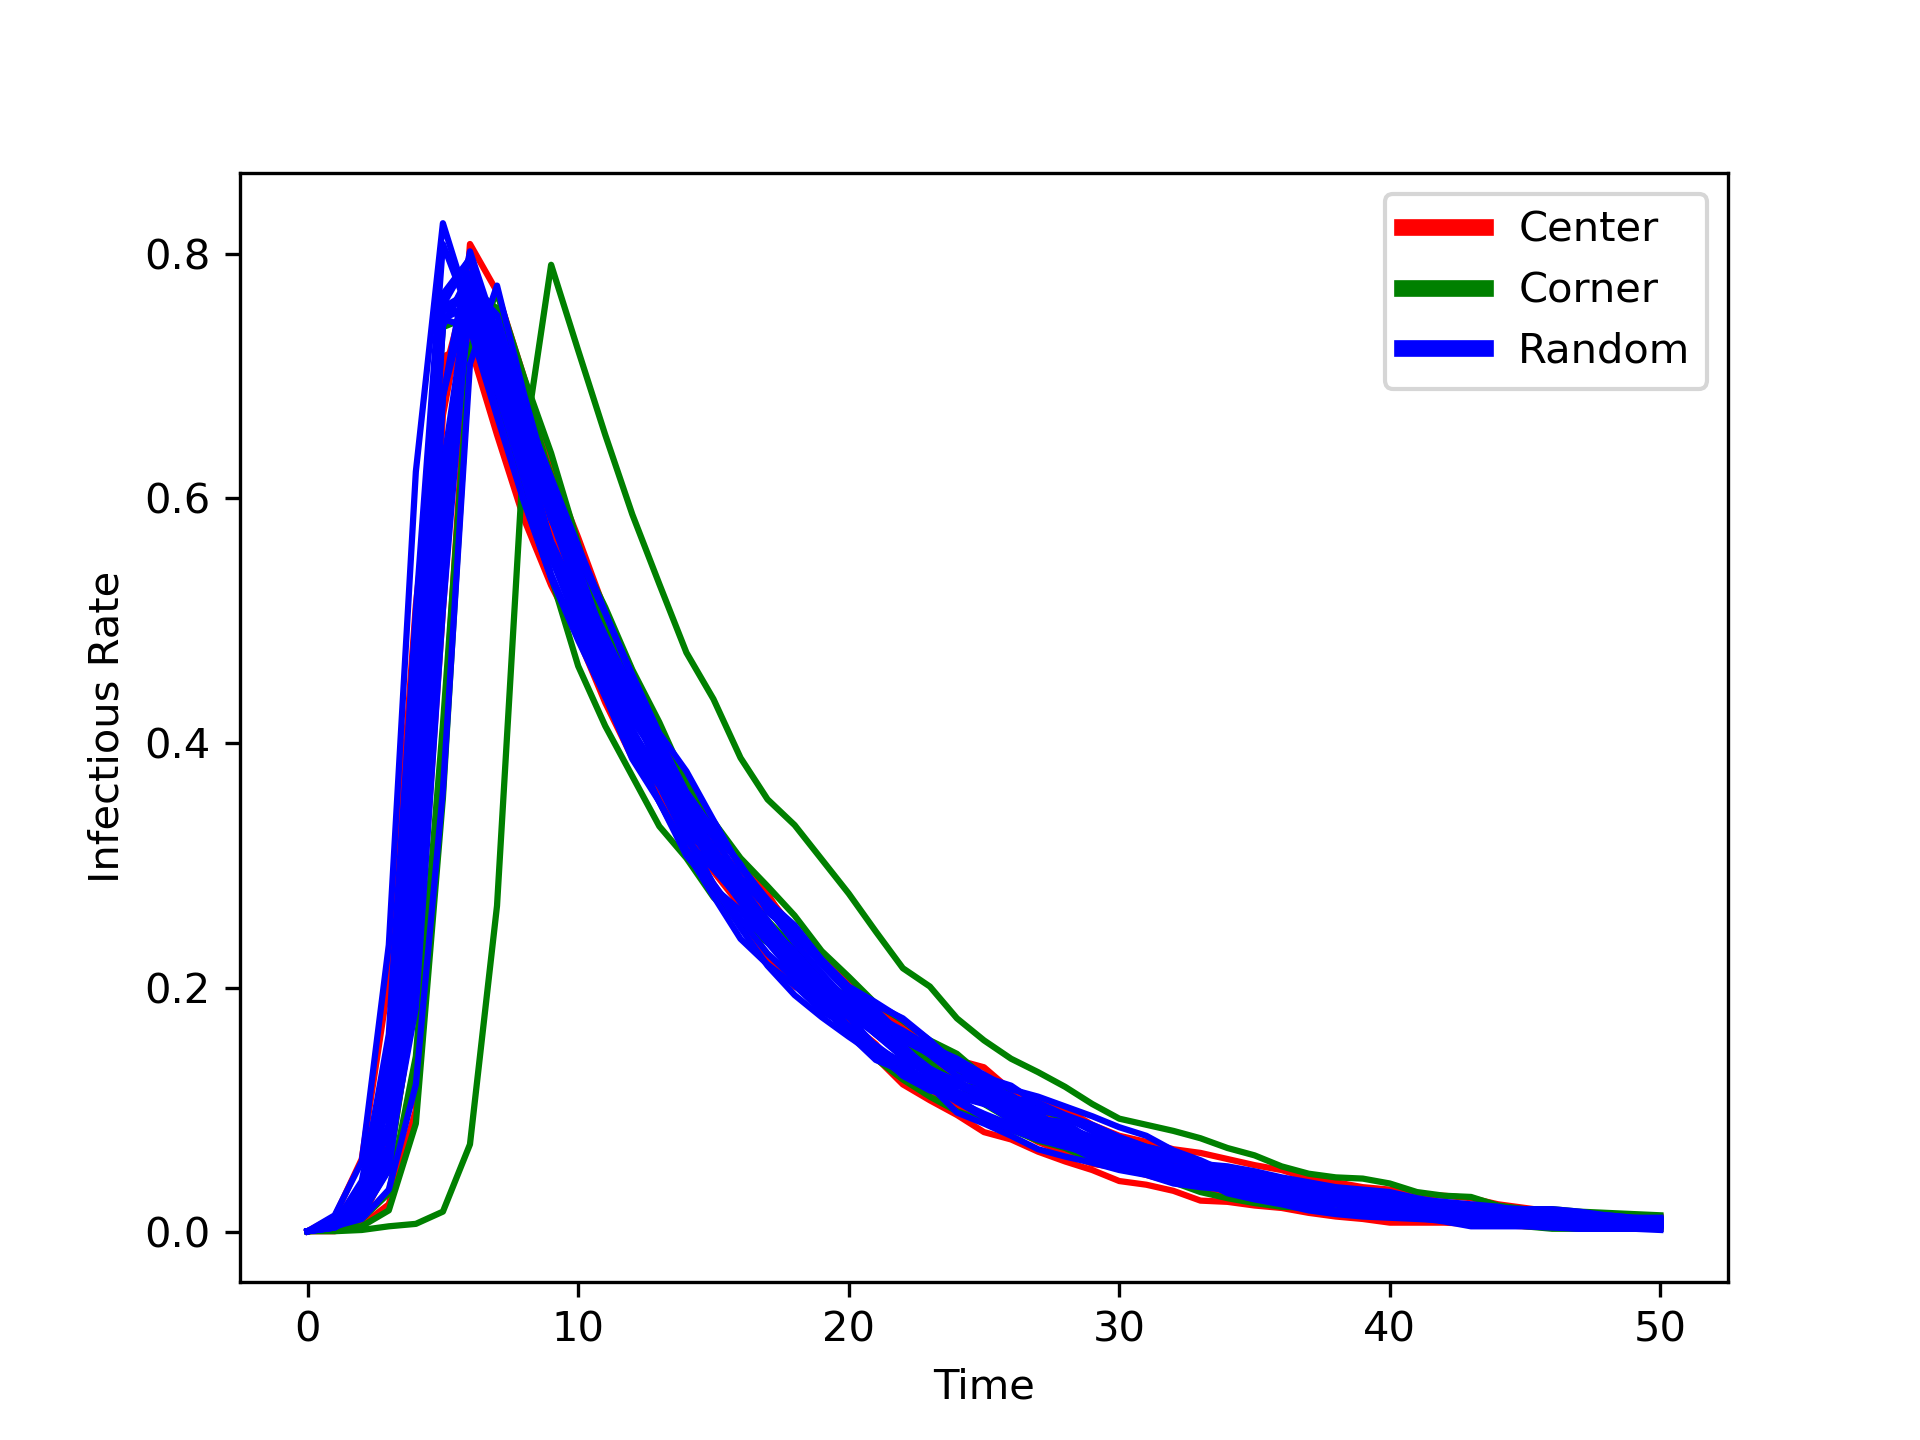
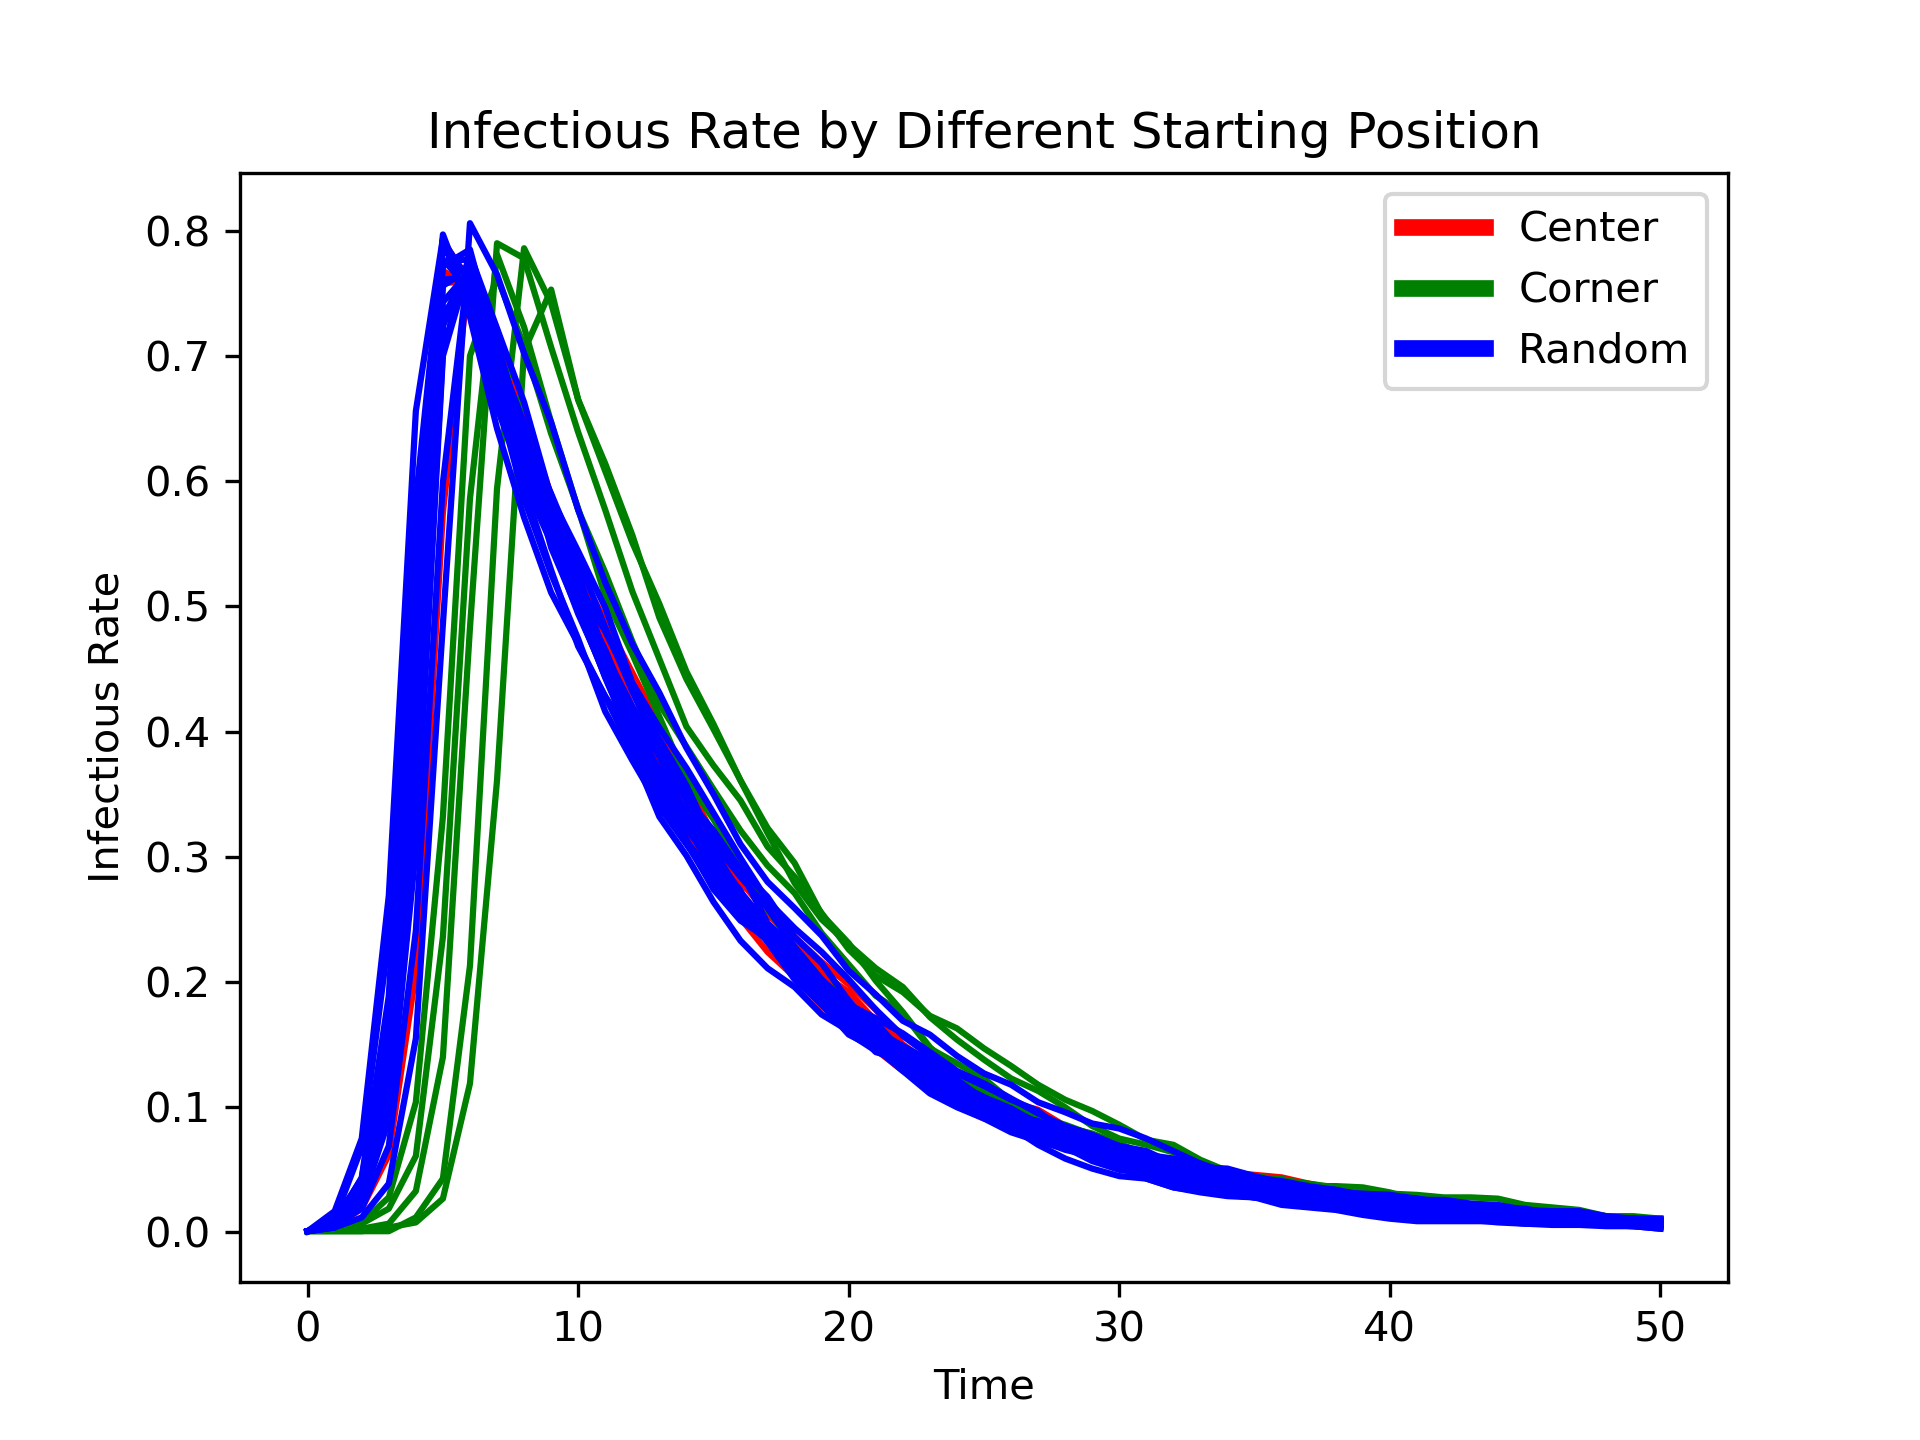
agent plots update

diff --git a/scripts/agent_2d_simulation.py b/scripts/agent_2d_simulation.py
@@ -8,7 +8,7 @@ sys.path.append('../')
 from scipy.spatial import KDTree
 from sir.agent_pop2d import Population2d
 from matplotlib.lines import Line2D
-
+import math
 
 def plot_lines(ax, df, cmap,label = None, start=0.2, end=1):
     """
@@ -35,7 +35,7 @@ N=1000
 I = 1
 T = 50
 b = 7
-k = 0.1
+k = 0.05
 q = math.sqrt(b/(math.pi*N))
 
 # investigate different ps starting at center
@@ -53,13 +53,13 @@ def plot_scale_effect(results,save_as=None):
     ax[1] = plot_lines(ax[1], results[:,:,1], mpl.cm.OrRd,ps) #I
     ax[2] = plot_lines(ax[2], results[:,:,2], mpl.cm.Greens,ps) #R
     if save_as != None:
-        plt.savefig(f'../output/{save_as}.png', dpi=300)
+        plt.savefig(f'../docs/figs/{save_as}.png', dpi=300)
     plt.show()
 
 
 ps = np.round(np.linspace(0,1,20),1)
 r_ps = simulate_step(ps)
-plot_scale_effect(r_ps)
+plot_scale_effect(r_ps,'agent_2d_by_p')
 
 # investigate location
 # loc = ['center','corner']
@@ -103,13 +103,46 @@ def plot_loc_effect_2d(results,n1 = 5,n2 = 5,n3 = 20,save_as=None):
     plt.legend(custom_lines, ['Center', 'Corner', 'Random'])
     plt.xlabel("Time")
     plt.ylabel("Infectious Rate")
+    plt.title("Infectious Rate by Different Starting Position")
     if save_as != None:
-        plt.savefig(f'../output/agent_loc_p_{save_as}.png', dpi=300)
+        plt.savefig(f'../docs/figs/agent_loc_p_{save_as}.png', dpi=300)
     plt.show()
 
 r_p0 = simulate_pos(0)
-plot_loc_effect_2d(r_p0)
+plot_loc_effect_2d(r_p0,save_as=0)
 r_p05 = simulate_pos(0.5)
-plot_loc_effect_2d(r_p05)
+plot_loc_effect_2d(r_p05,save_as= 0.5)
 r_p1 = simulate_pos(1)
-plot_loc_effect_2d(r_p1)
+plot_loc_effect_2d(r_p1,save_as=1)
+
+
+
+T = [0,2,4,6,10]
+loc = ['center','corner','random']
+
+def plot_scatter(ax,pop):
+    ax.scatter(pop.s_info[:, 1], pop.s_info[:, 2])
+    ax.scatter(pop.i_info[:, 1], pop.i_info[:, 2])
+    if pop.r_info.size > 0:
+        ax.scatter(pop.r_info[:, 1], pop.r_info[:, 2])
+
+def plot_spread(p,save_as):
+    f, ax = plt.subplots(len(loc), len(T), figsize=(20, 15), sharex=True, sharey=True)
+    for i, l in enumerate(loc):
+        pop = Population2d(N,I,l)
+        for j, t in enumerate(T):
+            pop.simulation(t, p = p, q = q, k = k)
+            plot_scatter(ax[i,j],pop)
+    for i, l in enumerate(loc):
+        ax[i, 0].set_ylabel("{}".format(l))
+    for j, t in enumerate(T):
+        ax[0, j].set_title("t = {}".format(T[j]+T[j-1]))
+    f.text(0.5, 0.01, 'Spread of Virus by time vs Position', ha='center', fontsize=18)
+    if save_as != None:
+        plt.savefig(f'../docs/figs/agent_spread_p_{save_as}.png', dpi=300)
+    plt.show()
+    plt.show()
+
+plot_spread(0,0)
+plot_spread(0.3,0.3)
+plot_spread(1,1)
